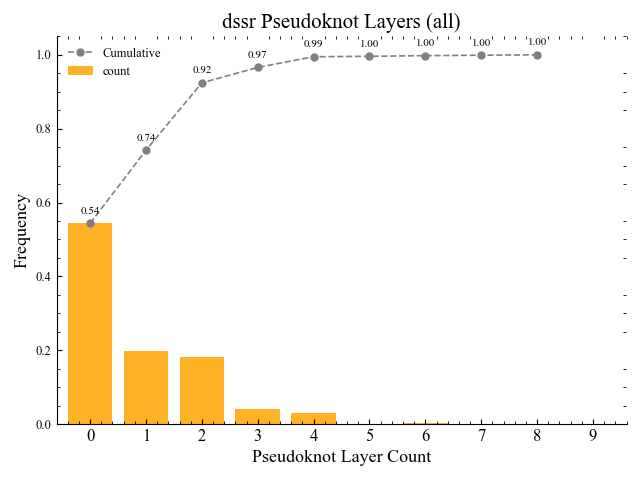
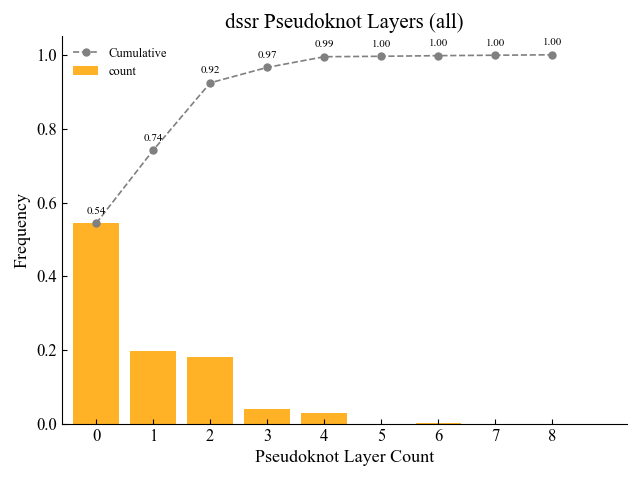
上や右を消した

diff --git a/analysis/pseudoknotlayer_plotting.py b/analysis/pseudoknotlayer_plotting.py
@@ -326,11 +326,13 @@ def main():
             ax.tick_params(top=False, right=False)
             ax.spines['top'].set_visible(False)
             ax.spines['right'].set_visible(False)
+            ax.tick_params(which='both', top=False, right=False)
+            ax.minorticks_off()  # minor を完全にオフ
             ax.set_xlabel('Pseudoknot Layer Count', fontsize=13)
-            ax.set_xticks([int(x) for x in range(freq.index.max() + 1)])
-            ax.set_xticklabels([int(x) for x in (range(freq.index.max() + 1))], rotation=0 , fontsize=12)
+            ax.set_xticks([int(x) for x in range(freq.index.max())])
+            ax.set_xticklabels([int(x) for x in (range(freq.index.max()))], rotation=0 , fontsize=12)
             ax.tick_params(axis='y', labelsize=12)
-            ax.set_xlim(-0.6, freq.index.max()+0.6)
+            ax.set_xlim(-0.6, freq.index.max()+0.3)
             plt.ylabel('Frequency', fontsize=13)
             # 累積度数ライン（同じ y 軸: 正規化なので 0→1）
             ax.plot(cumulative.index - 1, cumulative.values, color='gray', marker='o', linewidth=1.2, markersize=5, label='Cumulative', linestyle='--')
